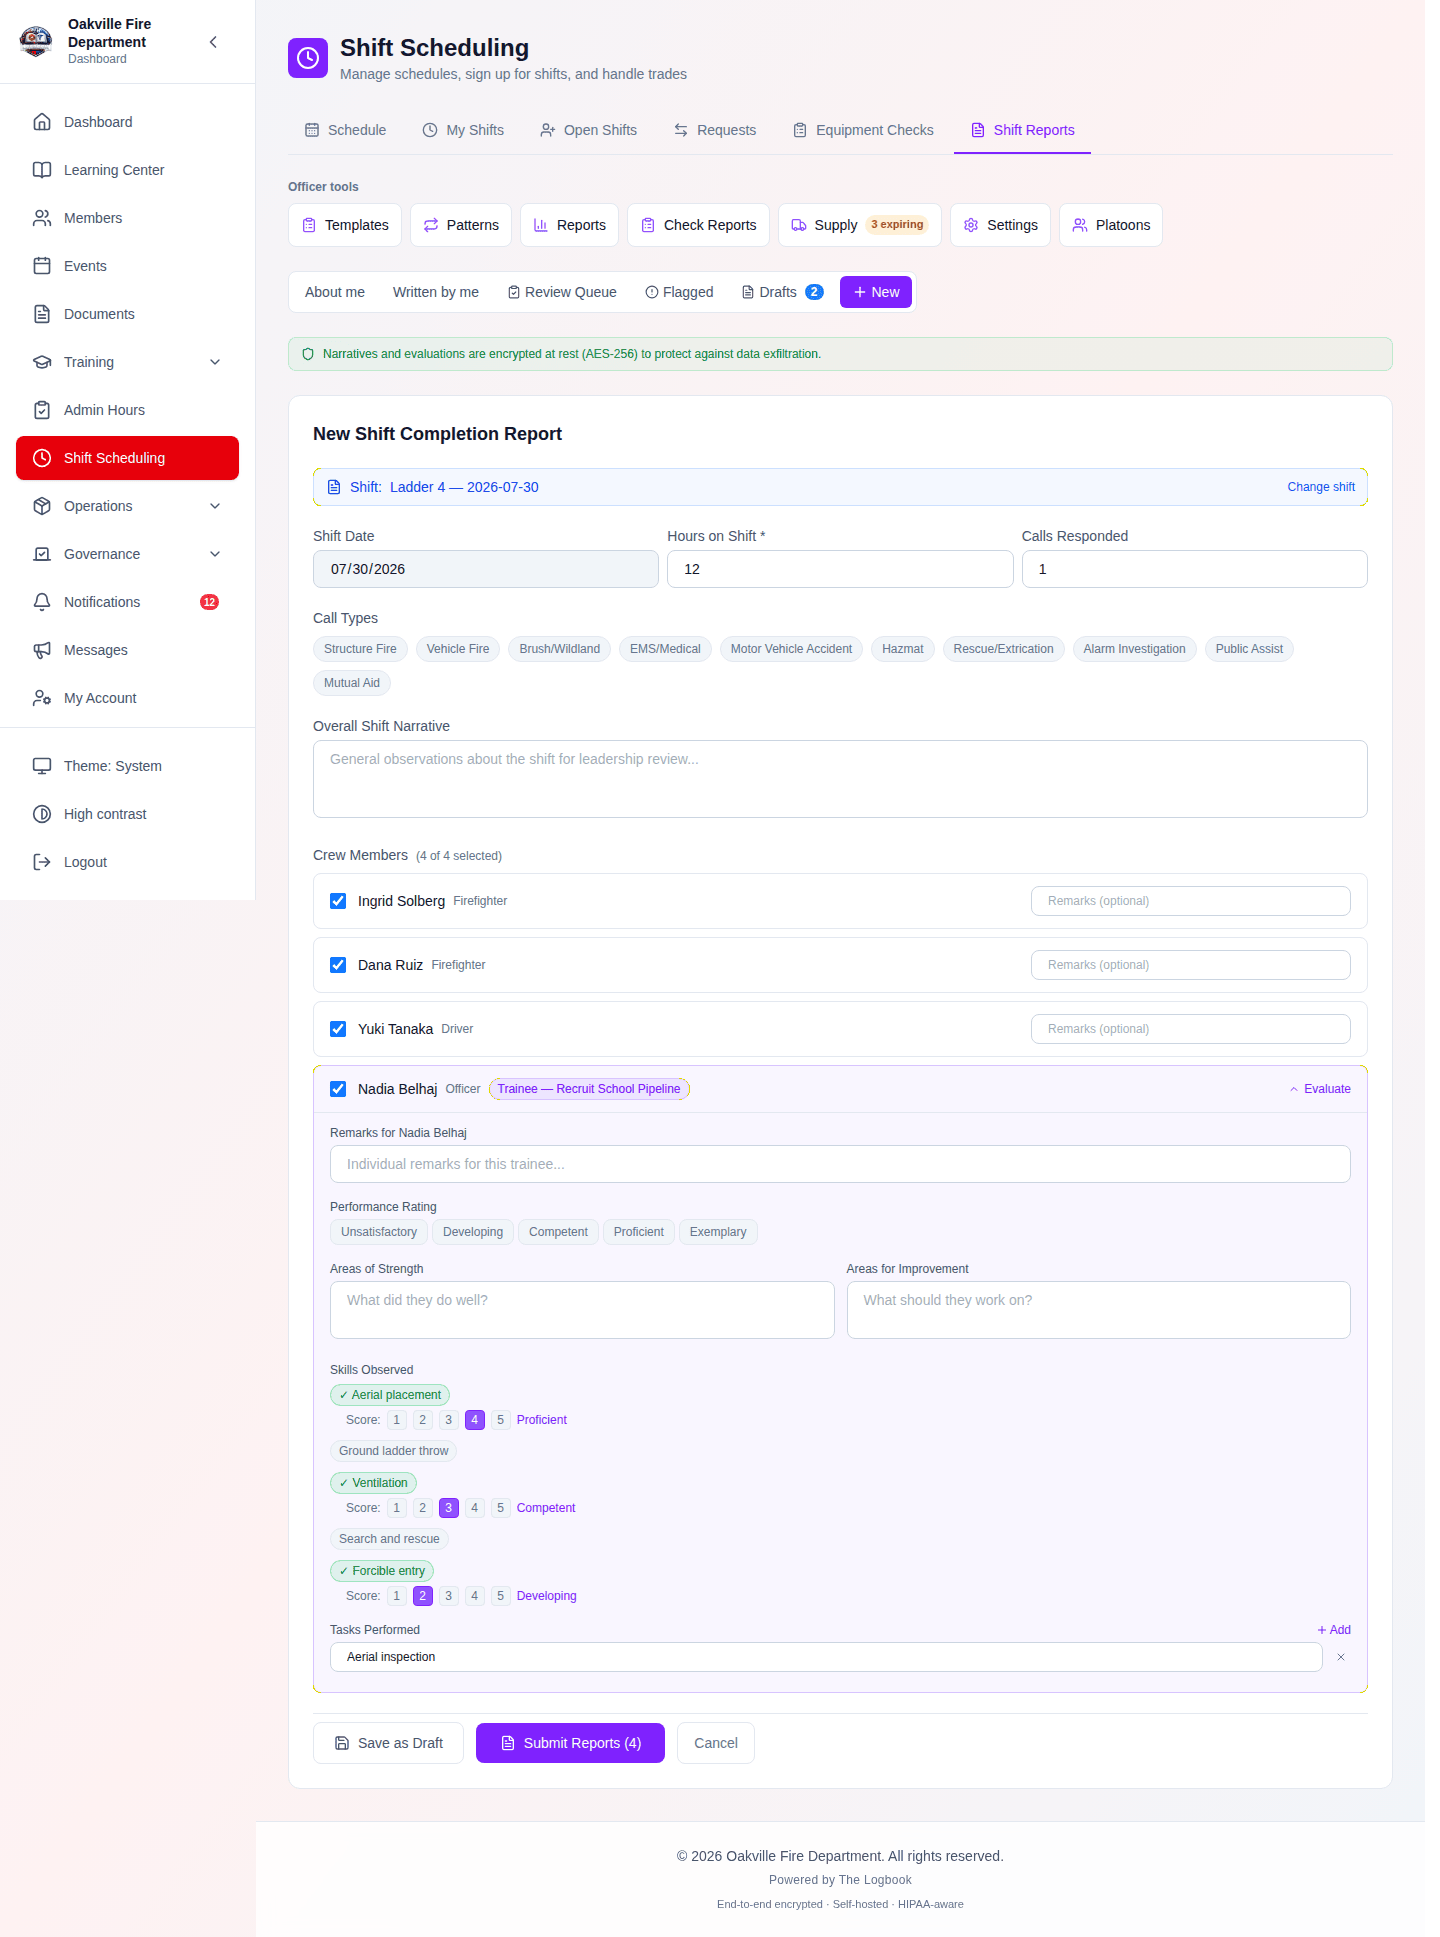
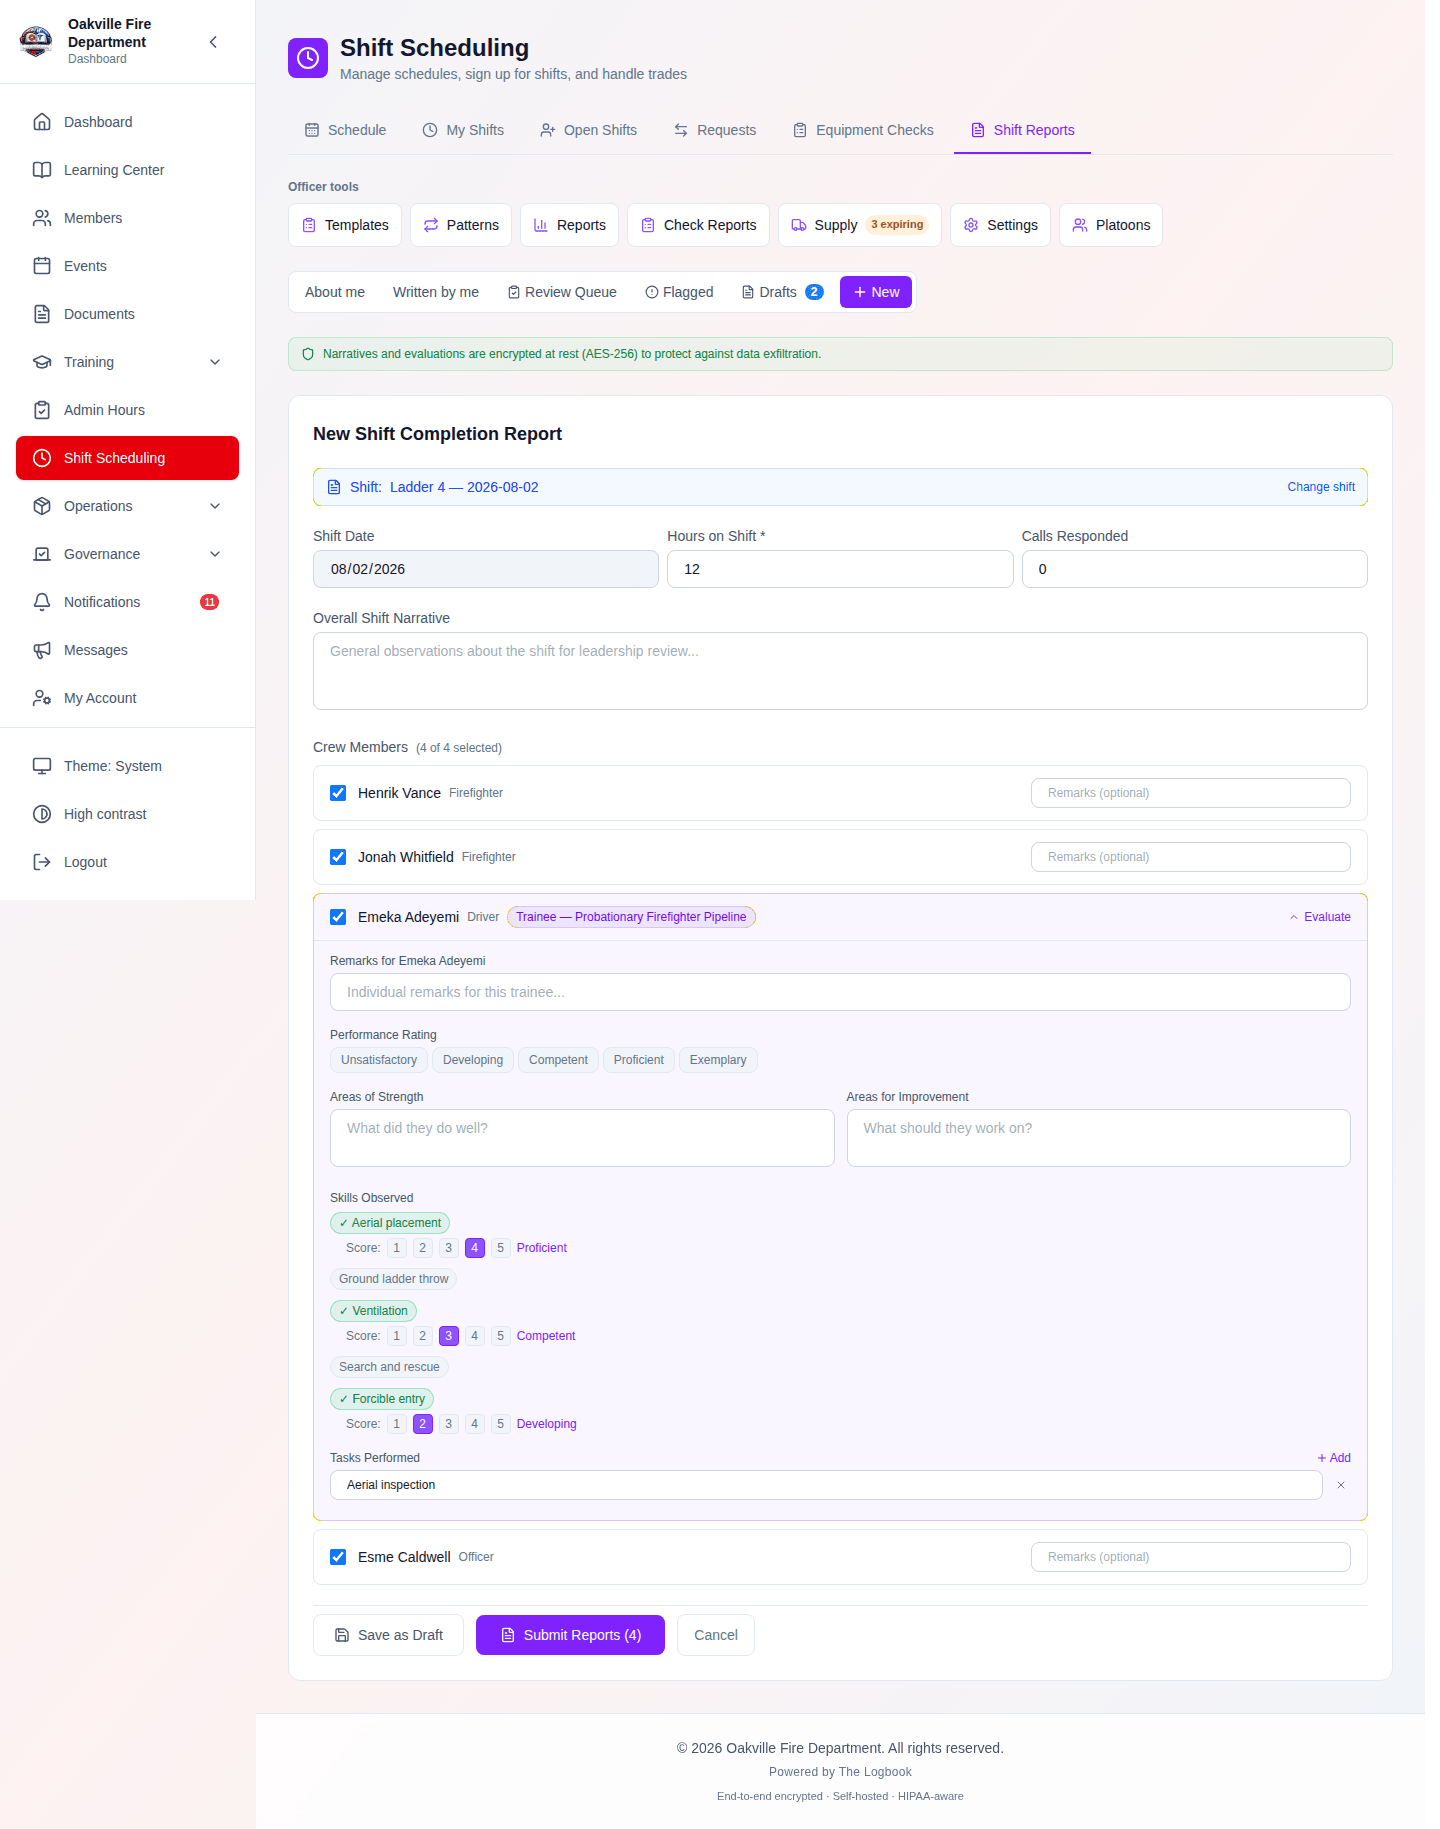
docs(screenshots): survey image currency after the main merges
Code changed under six guides since their images were captured. The navigation
refactor was the one that could have invalidated everything — SideNavigation,
TopNavigation and a new adminNavigation.ts changed how admin permissions are
computed, and one item moved from forms.view to forms.manage. Re-captured an
admin page and compared: the sidebar renders identically, so the other ~420
images stand. That capture was discarded as time-drift churn.

Guide 03 is the real exposure — SchedulingPage plus a new SchedulingHeader and
five admin pages, across 80 shots. A --only 03-6 re-capture changed 11 of 13
images. Only 03-63-batch-report-form was opened and is committed; the other ten
were reverted unopened. They are not wrong, they are unverified.

The per-guide exposure table is in SCREENSHOT_CURRENCY.md for the re-capture
pass, which now outranks the 2 remaining placeholders.

Claude-Session: https://claude.ai/code/session_01MR3YDBTkhiX8tzyQovuUKc

diff --git a/docs/training/SCREENSHOT_CURRENCY.md b/docs/training/SCREENSHOT_CURRENCY.md
@@ -68,6 +68,46 @@ seeded twice.
 **All three remaining placeholders are now characterised** — none is a mystery,
 each is a bounded piece of demo-data work, and two of them share a fixture.
 
+### A currency survey after the main merges — the navigation is fine, guide 03 is not
+
+Code changed under six guides since their images were captured. Checked in
+order of blast radius:
+
+**The navigation refactor is not a problem.** `SideNavigation.tsx`,
+`TopNavigation.tsx` and a new `adminNavigation.ts` changed how admin
+permissions are computed, and one item's gate moved from `forms.view` to
+`forms.manage` — which could have altered the sidebar in every one of the ~420
+images. Re-captured a representative admin page and compared: **the sidebar
+renders identically** for the demo administrator. The only differences were
+time drift ("3d in stage" to "6d in stage", notification badge 12 to 11), so
+that capture was discarded rather than committed as churn.
+
+**Guide 03 is the real exposure.** `SchedulingPage.tsx` plus a **new**
+`SchedulingHeader.tsx` and the templates / patterns / platoons / settings /
+admin-reports pages all changed, across 80 shots. A `--only 03-6` re-capture
+produced 11 changed images out of 13.
+
+Shots on routes whose components changed, as an upper bound rather than a
+verified count:
+
+| Shots | Guide             | Changed underneath                                                                                                                 |
+| ----: | ----------------- | ---------------------------------------------------------------------------------------------------------------------------------- |
+|    80 | 03 scheduling     | `SchedulingPage`, new `SchedulingHeader`, templates/patterns/platoons/settings/admin-reports, `shiftSettingsApi`                   |
+|    67 | 02 training       | `CreateTrainingSessionPage`, `SubmitTrainingPage`, `TrainingLinkageFields`, `TrainingSessionLinkageCard`, `useTrainingLinkageData` |
+|    22 | 04 events         | `EventForm`, `EventDetailPage`, `EventsPage`, `types/event.ts`                                                                     |
+|    17 | 09 skills testing | `ActiveSkillTestPage`, `ScoreBreakdownPanel`, `SkillTemplateBuilderPage`, `skillTestTallies`, both print pages                     |
+|    12 | 06 apparatus      | `ApparatusListPage`, `ApparatusDetailHeader`, `ApparatusFormPage`                                                                  |
+|     2 | 08 admin          | `ErrorMonitoringPage`, `RoleManagementPage`                                                                                        |
+
+`Breadcrumbs`, `PageTransition` and `CommandPalette` also changed, and they
+appear across many guides — if their rendered output moved at all the exposure
+is wider than the table.
+
+Of the 11 changed guide-03 images, **only `03-63-batch-report-form` was opened
+and is committed**; the other ten were reverted unopened. They are not wrong,
+they are unverified, and the rule that has caught every real defect this session
+is that those are not the same thing.
+
 ### Program phases carry no requirements, so the caption's counts come from elsewhere
 
 `01-membership.md:1282` wants Phase 1 (Complete, 4/4), Phase 2 (In Progress,
